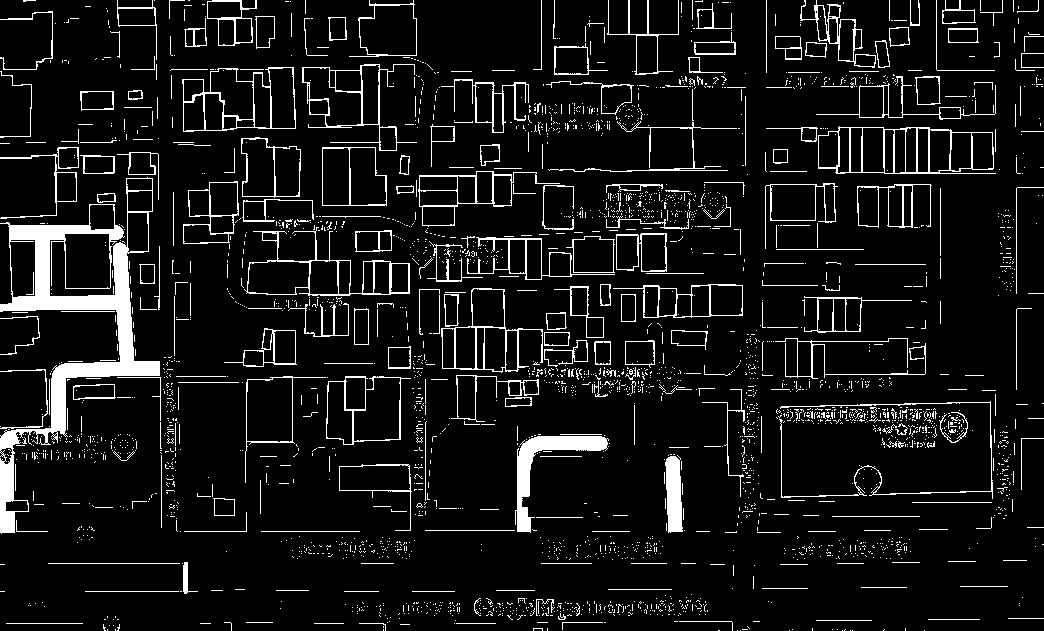
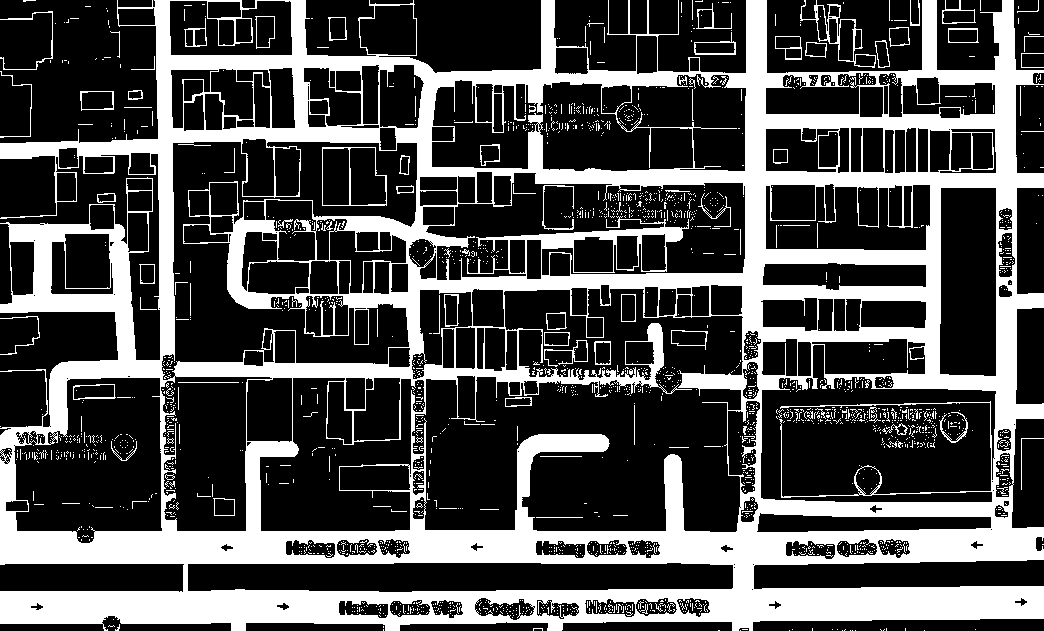
1010

diff --git a/static/main.js b/static/main.js
@@ -1,3 +1,4 @@
+// main.js
 document.getElementById("uploadForm").onsubmit = async function (e) {
     e.preventDefault();
     const fileInput = document.querySelector("input[name='image']");
@@ -7,30 +8,68 @@ document.getElementById("uploadForm").onsubmit = async function (e) {
     // Hiển thị ảnh chưa xử lý
     document.getElementById("image").src = URL.createObjectURL(file);
 
+    // Thêm phần tử loading vào giao diện
+    let loading = document.getElementById("loading");
+    if (!loading) {
+        loading = document.createElement("div");
+        loading.id = "loading";
+        loading.innerHTML = "Đang xử lý... <span class='spinner'></span>";
+        loading.style.cssText = "margin-top: 20px; font-size: 16px; color: #333;";
+        document.body.appendChild(loading);
+    }
+    loading.style.display = "block";
+
+    // Thêm CSS cho spinner
+    const style = document.createElement("style");
+    style.textContent = `
+        .spinner {
+            border: 4px solid #f3f3f3;
+            border-top: 4px solid #3498db;
+            border-radius: 50%;
+            width: 20px;
+            height: 20px;
+            animation: spin 1s linear infinite;
+            display: inline-block;
+            margin-left: 5px;
+        }
+        @keyframes spin {
+            0% { transform: rotate(0deg); }
+            100% { transform: rotate(360deg); }
+        }
+    `;
+    document.head.appendChild(style);
+
     const formData = new FormData();
     formData.append("file", file);
 
-    const res = await fetch("/process-image", {
-        method: "POST",
-        body: formData
-    });
+    try {
+        const res = await fetch("/process-image", {
+            method: "POST",
+            body: formData
+        });
 
-    if (!res.ok) {
-        const err = await res.json().catch(() => ({ error: "Lỗi không xác định" }));
-        return alert("Lỗi: " + (err.error || "Không thể xử lý"));
+        if (!res.ok) {
+            const err = await res.json().catch(() => ({ error: "Lỗi không xác định" }));
+            throw new Error(err.error || "Không thể xử lý");
+        }
+
+        // Hiển thị kết quả
+        const data = await res.json();
+        const resultBox = document.getElementById("results");
+        const resultImage = document.getElementById("resultImage");
+
+        let output = "";
+        output += `🔹 Tìm được ${data.segments.length} đoạn centerline\n`;
+        data.segments.forEach((seg, i) => {
+            output += `Đường ${i + 1}: ${JSON.stringify(seg)}\n`;
+        });
+
+        resultBox.textContent = output;
+        resultImage.src = data.image_url + "?t=" + new Date().getTime(); // Tránh cache
+    } catch (error) {
+        alert("Lỗi: " + error.message);
+    } finally {
+        // Ẩn loading
+        if (loading) loading.style.display = "none";
     }
-
-    // Hiển thị kết quả
-    const data = await res.json();
-    const resultBox = document.getElementById("results");
-    const resultImage = document.getElementById("resultImage");
-
-    let output = "";
-    output += `🔹 Tìm được ${data.segments.length} đoạn centerline\n`;
-    data.segments.forEach((seg, i) => {
-        output += `Đường ${i + 1}: ${JSON.stringify(seg)}\n`;
-    });
-
-    resultBox.textContent = output;
-    resultImage.src = data.image_url + "?t=" + new Date().getTime(); // tránh cache
 };

diff --git a/test_mask.py b/test_mask.py
@@ -1,0 +1,28 @@
+import cv2
+import numpy as np
+
+# --- Đọc ảnh ---
+image_path = "output/mask_road_clean.png"
+img = cv2.imread(image_path, cv2.IMREAD_GRAYSCALE)
+
+# --- Nhị phân hóa (nếu ảnh chưa chuẩn 0-255) ---
+_, binary = cv2.threshold(img, 127, 255, cv2.THRESH_BINARY)
+
+# --- Morphological Closing để nối đường ---
+kernel = cv2.getStructuringElement(cv2.MORPH_RECT, (5, 5))  # kernel lớn hơn sẽ nối mạnh hơn
+closed = cv2.morphologyEx(binary, cv2.MORPH_CLOSE, kernel, iterations=2)
+
+# --- Morphological Opening để loại nhiễu nhỏ ---
+opened = cv2.morphologyEx(closed, cv2.MORPH_OPEN, kernel, iterations=1)
+
+# --- Làm dày đường để tránh bị lẹm ---
+dilated = cv2.dilate(opened, kernel, iterations=1)
+
+# --- Hiển thị ---
+cv2.imshow("Original", binary)
+cv2.imshow("Restored", dilated)
+cv2.waitKey(0)
+cv2.destroyAllWindows()
+
+# --- Lưu kết quả ---
+# cv2.imwrite("restored.png", dilated)

diff --git a/centerline_extractor.py b/centerline_extractor.py
@@ -11,14 +11,13 @@ def extract_centerline_and_junctions(image_path, debug=False):
 
     # Lọc màu đường (BGR)
     color_min_tong = np.array([0, 0, 0], dtype=np.uint8)
-    color_max_tong = np.array([246, 225, 255], dtype=np.uint8)
+    color_max_tong = np.array([232, 236, 255], dtype=np.uint8)
 
     color_min_duong = np.array([170, 0, 0], dtype=np.uint8)
     color_max_duong = np.array([255, 229, 255], dtype=np.uint8)
 
-    # Lọc màu chữ (BGR)
     color_min_chu = np.array([0, 0, 0], dtype=np.uint8)
-    color_max_chu = np.array([255, 198, 246], dtype=np.uint8)
+    color_max_chu = np.array([255, 180, 255], dtype=np.uint8)
 
     # Tạo các mask
     mask_duong_tong = cv2.inRange(img, color_min_tong, color_max_tong)
